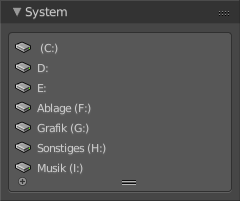
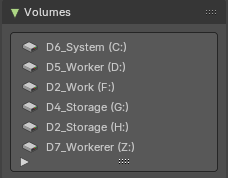
File Browser: Volumes and System panels, Current File entry (#1781)
* File Browser: Volumes and System panels, Current File entry

* File Browser: new captures of the System and Volumes panels

---------

Changed region(s): [[0.0307, 0.1685, 0.9825, 0.9831], [0.0307, 0.0281, 0.307, 0.1124], [0.8904, 0.0562, 0.9518, 0.0843]]

diff --git a/docs2/content/editors/file-browser.md b/docs2/content/editors/file-browser.md
@@ -7,7 +7,7 @@ section: editors
 path:
   - Editors
   - File browser
-version: "5.1"
+version: "5.3"
 status: needs-review
 screenshots: "5.1"
 source:
@@ -175,17 +175,23 @@ Toggles the sidebar at the right. The sidebar contains various im- and export se
 
 The Tool Shelf at the left provides you with some panels for quick access to files and bookmarks.
 
-### System Panel
+### Volumes
 
-![System Panel](/docs2/images/editors/file-browser/system-panel.png)
+![Volumes panel](/docs2/images/editors/file-browser/system-panel.png)
 
-Lists your drives.
+Lists your drives and mounted volumes. Click one to jump to its top folder.
 
-### System Bookmarks
+### System
 
-![System Bookmarks](/docs2/images/editors/file-browser/system-bookmarks.png)
+![System panel](/docs2/images/editors/file-browser/system-bookmarks.png)
 
-Lists some system libraries.
+Lists the common folders of your operating system, such as Home, Documents, Downloads and Desktop. Click one to jump there.
+
+#### Current File
+
+The first entry in the System panel. It takes you to the folder that holds the blend file you have open. Use it to reach textures, renders or other files that sit next to your project without browsing for them.
+
+> **Note:** Current File only appears once the blend file is saved. A new, unsaved file has no folder yet.
 
 ### Bookmarks
 
